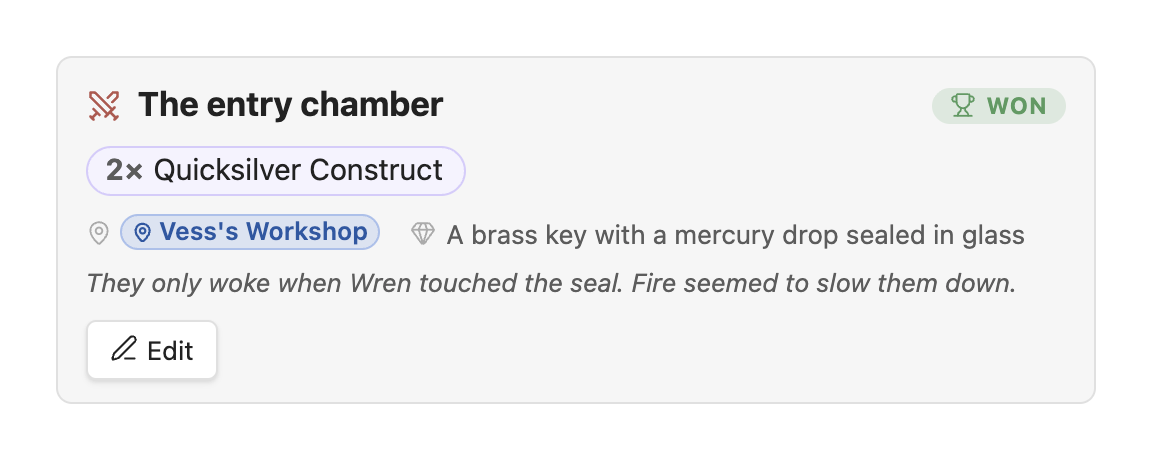
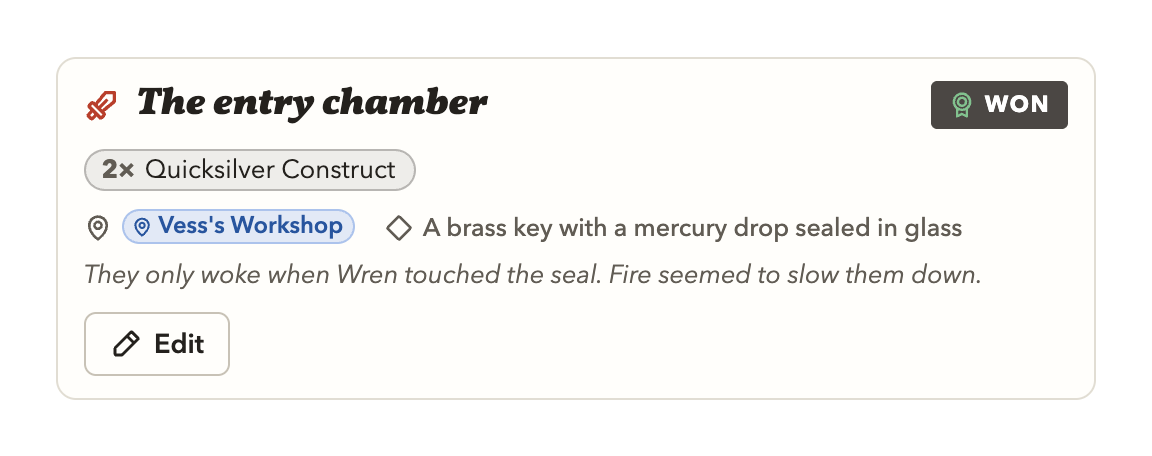
🎨 Battle notes wear Nimble's look
A player's battle notes were still Obsidian's grey card with purple foe chips, and
pastel outcome pills, beside the GM's encounter block in the game's look. They now use
that block's card: Nimble's paper and type, the name in Vollkorn, Phosphor icons, How
it went as a dark tag with its colour on the icon, Edit as the block's button, and the
editor as a game dialog with Cancel and Save.

diff --git a/src/systems/nimble/battle-notes.ts b/src/systems/nimble/battle-notes.ts
@@ -12,29 +12,37 @@ import { appendRichText } from '../../core/markdown';
 import { wireWikiLinks } from '../../core/wiki-links';
 import { searchMonsters } from './suggest';
 import { nimble } from './runtime';
+import { applyLook } from '../../core/look';
+import { EvIconName, evIcon } from '../../core/icons';
+import { pill } from '../../core/pill';
+import { dialogFoot, gameDialog } from '../../core/dialog';
 
-const OUTCOME_INFO: Record<Outcome, { label: string; icon: string }> = {
-	won: { label: 'Won', icon: 'trophy' },
-	fled: { label: 'Fled', icon: 'footprints' },
-	lost: { label: 'Lost', icon: 'skull' },
-	parley: { label: 'Parley', icon: 'handshake' },
-	ongoing: { label: 'Ongoing', icon: 'hourglass' },
+/** Each outcome: its word, its Lucide icon for Obsidian's menu, and its Phosphor glyph on the card. */
+const OUTCOME_INFO: Record<Outcome, { label: string; icon: string; glyph: EvIconName }> = {
+	won: { label: 'Won', icon: 'trophy', glyph: 'medal' },
+	fled: { label: 'Fled', icon: 'footprints', glyph: 'footprints' },
+	lost: { label: 'Lost', icon: 'skull', glyph: 'skull' },
+	parley: { label: 'Parley', icon: 'handshake', glyph: 'hand' },
+	ongoing: { label: 'Ongoing', icon: 'hourglass', glyph: 'hourglass' },
 };
 
 export function renderBattleNotes(plugin: EmberVaultPlugin, el: HTMLElement, def: EncounterDef, ctx: MarkdownPostProcessorContext, save: (next: EncounterDef) => void): void {
+	// The GM's encounter block on Nimble's paper (its look), with what a player keeps instead of the numbers.
 	const card = el.createDiv({ cls: 'nimble-encounter-block nimble-battle-notes' });
+	applyLook(card, 'nimble');
 	const head = card.createDiv({ cls: 'encounter-block-head' });
-	setIcon(head.createSpan({ cls: 'encounter-block-icon' }), 'swords');
+	setIcon(head.createSpan({ cls: 'encounter-block-icon' }), evIcon('swords'));
 	head.createSpan({ cls: 'encounter-block-name', text: def.name });
 
 	const raw = battleField(def, 'outcome');
 	const outcome = outcomeOf(raw);
-	const chip = head.createEl('button', {
+	const chip = pill(head, {
+		tag: 'button',
 		cls: `battle-outcome ${outcome ? `outcome-${outcome}` : raw ? 'outcome-other' : 'outcome-unset'}`,
+		icon: outcome ? evIcon(OUTCOME_INFO[outcome].glyph) : undefined,
+		text: outcome ? OUTCOME_INFO[outcome].label : raw || 'How did it go?',
 		attr: { 'aria-label': 'How it went' },
 	});
-	if (outcome) setIcon(chip.createSpan({ cls: 'battle-outcome-icon' }), OUTCOME_INFO[outcome].icon);
-	chip.createSpan({ text: outcome ? OUTCOME_INFO[outcome].label : raw || 'How did it go?' });
 	chip.addEventListener('click', (e) => {
 		e.preventDefault();
 		e.stopPropagation();
@@ -56,13 +64,13 @@ export function renderBattleNotes(plugin: EmberVaultPlugin, el: HTMLElement, def
 	}
 	if (!def.monsters.length) list.createDiv({ cls: 'encounter-block-empty', text: 'No foes yet' });
 
-	const facts: [string, string, string][] = [['map-pin', 'Where', battleField(def, 'where')], ['calendar-days', 'When', battleField(def, 'when')], ['gem', 'Loot', battleField(def, 'loot')]];
+	const facts: [EvIconName, string, string][] = [['map-pin', 'Where', battleField(def, 'where')], ['clock', 'When', battleField(def, 'when')], ['gem', 'Loot', battleField(def, 'loot')]];
 	const shown = facts.filter(([, , v]) => v);
 	if (shown.length) {
 		const meta = card.createDiv({ cls: 'battle-facts' });
 		for (const [icon, label, value] of shown) {
 			const f = meta.createDiv({ cls: 'battle-fact', attr: { 'aria-label': label } });
-			setIcon(f.createSpan({ cls: 'battle-fact-icon' }), icon);
+			setIcon(f.createSpan({ cls: 'battle-fact-icon' }), evIcon(icon));
 			appendRichText(f.createSpan({ cls: 'battle-fact-text' }), value);
 		}
 		wireWikiLinks(meta, plugin.app, ctx.sourcePath);
@@ -74,9 +82,7 @@ export function renderBattleNotes(plugin: EmberVaultPlugin, el: HTMLElement, def
 	}
 
 	const bar = card.createDiv({ cls: 'encounter-block-actions' });
-	const edit = bar.createEl('button', { attr: { 'aria-label': 'Edit these battle notes' } });
-	setIcon(edit.createSpan(), 'pencil');
-	edit.createSpan({ text: 'Edit' });
+	const edit = pill(bar, { tag: 'button', cls: 'encounter-block-btn', icon: evIcon('edit'), text: 'Edit', attr: { 'aria-label': 'Edit these battle notes' } });
 	edit.addEventListener('click', (e) => { e.preventDefault(); e.stopPropagation(); new BattleNotesModal(plugin, def, save).open(); });
 }
 
@@ -112,7 +118,7 @@ export class BattleNotesModal extends Modal {
 
 	onOpen(): void {
 		this.titleEl.setText('Battle notes');
-		this.modalEl.addClass('nimble-battle-modal');
+		gameDialog(this, 'nimble', { cls: 'nimble-battle-modal' });
 		this.render();
 	}
 
@@ -127,9 +133,9 @@ export class BattleNotesModal extends Modal {
 		const foes = c.createDiv({ cls: 'battle-modal-foes' });
 		d.monsters.forEach((m, i) => {
 			const row = foes.createDiv({ cls: 'battle-modal-foe' });
-			const step = (icon: string, label: string, delta: number) => {
+			const step = (icon: 'minus' | 'plus', label: string, delta: number) => {
 				const b = row.createEl('button', { cls: 'clickable-icon', attr: { 'aria-label': label } });
-				setIcon(b, icon);
+				setIcon(b, evIcon(icon));
 				b.addEventListener('click', () => {
 					m.count += delta;
 					if (m.count <= 0) d.monsters.splice(i, 1);
@@ -141,7 +147,7 @@ export class BattleNotesModal extends Modal {
 			step('plus', `One more ${m.name}`, 1);
 			row.createSpan({ cls: 'battle-modal-name', text: m.name });
 			const x = row.createEl('button', { cls: 'clickable-icon battle-modal-remove', attr: { 'aria-label': `Remove ${m.name}` } });
-			setIcon(x, 'x');
+			setIcon(x, evIcon('x'));
 			x.addEventListener('click', () => { d.monsters.splice(i, 1); this.render(); });
 		});
 		const add = c.createEl('input', { type: 'text', cls: 'battle-modal-add', attr: { placeholder: 'Add a foe: type a name (bestiary or your own)', 'aria-label': 'Add a foe' } });
@@ -173,17 +179,21 @@ export class BattleNotesModal extends Modal {
 		new Setting(c).setName('Notes').setClass('battle-modal-notes').addTextArea(t => t.setPlaceholder('What happened, who did what, what we learned')
 			.setValue(d.notes ?? '').onChange(v => { this.draft.notes = v.trim() || undefined; }));
 
-		new Setting(c)
-			.addButton(b => b.setButtonText('Cancel').onClick(() => this.close()))
-			.addButton(b => b.setButtonText('Save').setCta().onClick(() => {
-				const typed = this.contentEl.querySelector<HTMLInputElement>('.battle-modal-add')?.value.trim();
-				if (typed) {
-					const ex = this.draft.monsters.find(m => m.name.toLowerCase() === typed.toLowerCase());
-					if (ex) ex.count += 1; else this.draft.monsters.push({ name: typed, count: 1 });
-				}
-				this.close();
-				this.onSave(this.draft);
-			}));
+		dialogFoot(c, {
+			cancel: () => this.close(),
+			main: {
+				text: 'Save', icon: evIcon('check'), cls: 'battle-modal-save',
+				onClick: () => {
+					const typed = this.contentEl.querySelector<HTMLInputElement>('.battle-modal-add')?.value.trim();
+					if (typed) {
+						const ex = this.draft.monsters.find(m => m.name.toLowerCase() === typed.toLowerCase());
+						if (ex) ex.count += 1; else this.draft.monsters.push({ name: typed, count: 1 });
+					}
+					this.close();
+					this.onSave(this.draft);
+				},
+			},
+		});
 		if (!d.monsters.length) window.setTimeout(() => add.focus(), 0);
 	}
 

diff --git a/styles.css b/styles.css
@@ -2507,26 +2507,29 @@ body.is-tablet :is(.campaign-party, .campaign-continue, .campaign-switch-btn, .c
 .nimble-bestiary .bestiary-level.bestiary-lore-icon { display: inline-flex; align-items: center; justify-content: center; color: var(--text-faint); background: transparent; }
 .nimble-bestiary .bestiary-lore-icon svg { width: 15px; height: 15px; }
 
-/* Battle notes: a player's encounter block */
-.nimble-battle-notes { border-color: var(--background-modifier-border); }
-.nimble-battle-notes .battle-outcome {
-	display: inline-flex; align-items: center; gap: 0.3rem; height: auto; padding: 0.15rem 0.6rem; border-radius: 999px; box-shadow: none;
-	font-size: 0.72rem; font-weight: 700; letter-spacing: 0.04em; text-transform: uppercase; background: var(--background-modifier-hover); color: var(--text-muted);
+/* Battle notes: a player's encounter block, the GM block's card on the game's paper (.ev-sys-nimble). How it went
+   is a tag like the GM's rating (dark, white text), its colour on the icon; unset, a quiet dashed chip. */
+.nimble-battle-notes .encounter-block-head button.battle-outcome {
+	display: inline-flex; align-items: center; height: 24px; padding: 0 9px; border: 0; border-radius: var(--ev-r-chip); box-shadow: none; cursor: pointer;
+	background: var(--ev-bar); color: var(--ev-on-bar); font: 700 11.5px/normal var(--ev-font-ui); letter-spacing: 0.06em; text-transform: uppercase; white-space: nowrap;
+	--ev-pill-icon: 13px; --ev-pill-gap: 5px;
 }
-.nimble-battle-notes .battle-outcome svg { width: 13px; height: 13px; }
-.nimble-battle-notes .battle-outcome.outcome-won { background: rgba(76, 175, 109, 0.18); color: #3f9d5d; }
-.nimble-battle-notes .battle-outcome.outcome-fled { background: rgba(201, 182, 72, 0.2); color: #a8922a; }
-.nimble-battle-notes .battle-outcome.outcome-lost { background: rgba(224, 93, 93, 0.2); color: #d24c4c; }
-.nimble-battle-notes .battle-outcome.outcome-parley { background: color-mix(in srgb, var(--interactive-accent) 18%, transparent); color: var(--text-accent); }
-.nimble-battle-notes .battle-outcome.outcome-unset { font-weight: 500; text-transform: none; letter-spacing: 0; color: var(--text-faint); }
+.nimble-battle-notes .encounter-block-head button.battle-outcome:hover { background: color-mix(in srgb, var(--ev-bar) 88%, var(--ev-text)); }
+.nimble-battle-notes .battle-outcome .ev-pill-icon { color: var(--outcome-dot, currentColor); }
+.nimble-battle-notes .battle-outcome.outcome-won { --outcome-dot: #6cc48a; }
+.nimble-battle-notes .battle-outcome.outcome-fled { --outcome-dot: #e3cd5a; }
+.nimble-battle-notes .battle-outcome.outcome-lost { --outcome-dot: #ff7a6b; }
+.nimble-battle-notes .battle-outcome.outcome-parley { --outcome-dot: #9fc3ec; }
+.nimble-battle-notes .encounter-block-head button.battle-outcome.outcome-unset { background: transparent; color: var(--ev-text-2); box-shadow: inset 0 0 0 1px var(--ev-line-strong); font-weight: 600; letter-spacing: 0; text-transform: none; }
+.nimble-battle-notes .encounter-block-head button.battle-outcome.outcome-unset:hover { background: var(--ev-surface-2); }
 .nimble-battle-notes .battle-foe { display: inline-flex; align-items: center; gap: 0.3rem; }
-.nimble-battle-notes .battle-foe-count { display: inline-flex; align-items: center; padding-left: 0.6em; font-weight: 700; font-variant-numeric: tabular-nums; color: var(--text-muted); }
+.nimble-battle-notes .battle-foe-count { display: inline-flex; align-items: center; padding-left: 0.6em; font-weight: 700; font-variant-numeric: tabular-nums; color: var(--ev-text-2); }
 .nimble-battle-notes .battle-foe-name { display: inline-flex; align-items: center; padding-right: 0.75em; }
-.nimble-battle-notes .battle-facts { display: flex; flex-wrap: wrap; gap: 0.25rem 0.9rem; font-size: 0.82rem; color: var(--text-muted); margin-top: 0.2rem; }
-.nimble-battle-notes .battle-fact { display: inline-flex; align-items: center; gap: 0.3rem; min-width: 0; }
-.nimble-battle-notes .battle-fact-icon { display: inline-flex; color: var(--text-faint); }
-.nimble-battle-notes .battle-fact-icon svg { width: 13px; height: 13px; }
-.nimble-battle-modal .battle-modal-heading { font-size: 0.75rem; font-weight: 700; text-transform: uppercase; letter-spacing: 0.06em; color: var(--text-muted); margin: 0.75rem 0 0.35rem; }
+.nimble-battle-notes .battle-facts { display: flex; flex-wrap: wrap; gap: 4px 14px; margin-top: 2px; font: 500 12.5px/18px var(--ev-font-ui); color: var(--ev-text-2); }
+.nimble-battle-notes .battle-fact { display: inline-flex; align-items: center; gap: 5px; min-width: 0; }
+.nimble-battle-notes .battle-fact-icon { display: inline-flex; color: var(--ev-text-2); }
+.nimble-battle-notes .battle-fact-icon svg { width: 14px; height: 14px; }
+.nimble-battle-modal .battle-modal-heading { margin: 4px 0 -6px; font: 700 12.5px/normal var(--ev-font-display); letter-spacing: 0.07em; text-transform: uppercase; color: var(--ev-text-2); }
 .nimble-battle-modal .battle-modal-foes { display: flex; flex-direction: column; gap: 0.2rem; margin-bottom: 0.4rem; }
 .nimble-battle-modal .battle-modal-foe { display: grid; grid-template-columns: auto 1.6rem auto minmax(0, 1fr) auto; align-items: center; gap: 0.3rem; }
 .nimble-battle-modal .battle-modal-count { text-align: center; font-weight: 700; font-variant-numeric: tabular-nums; }
